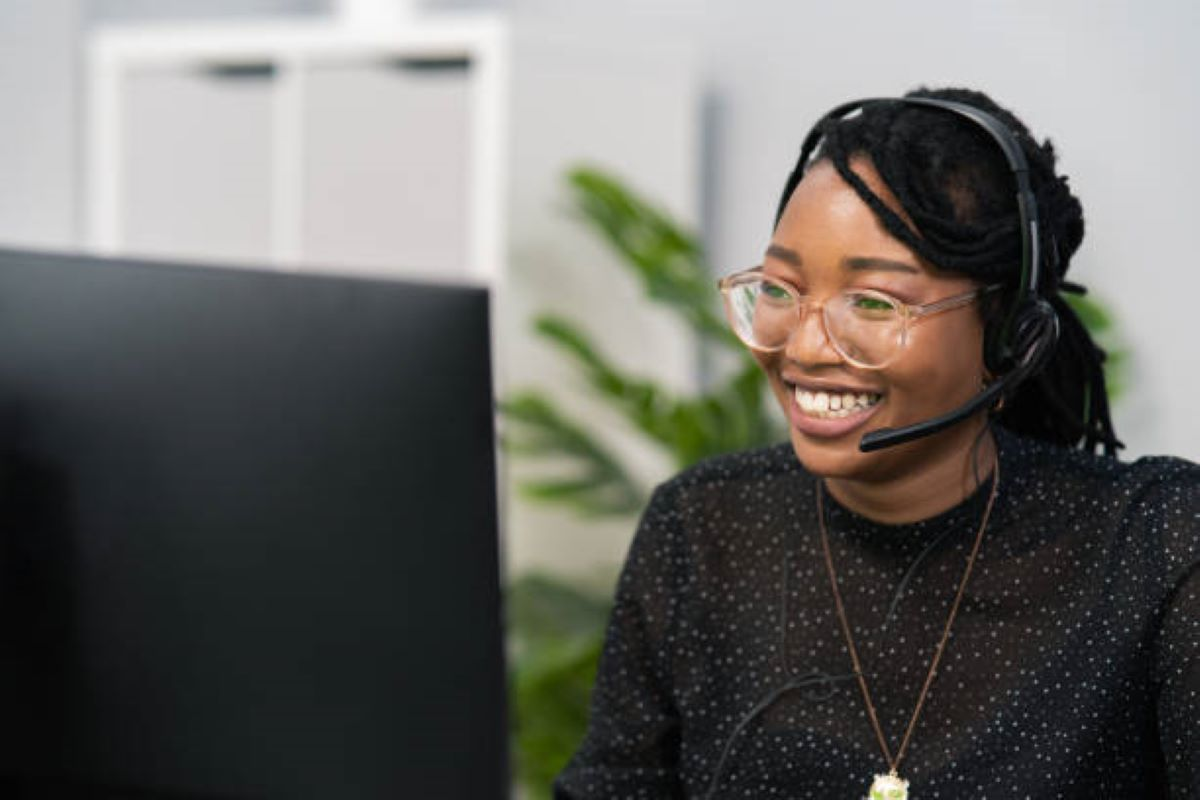
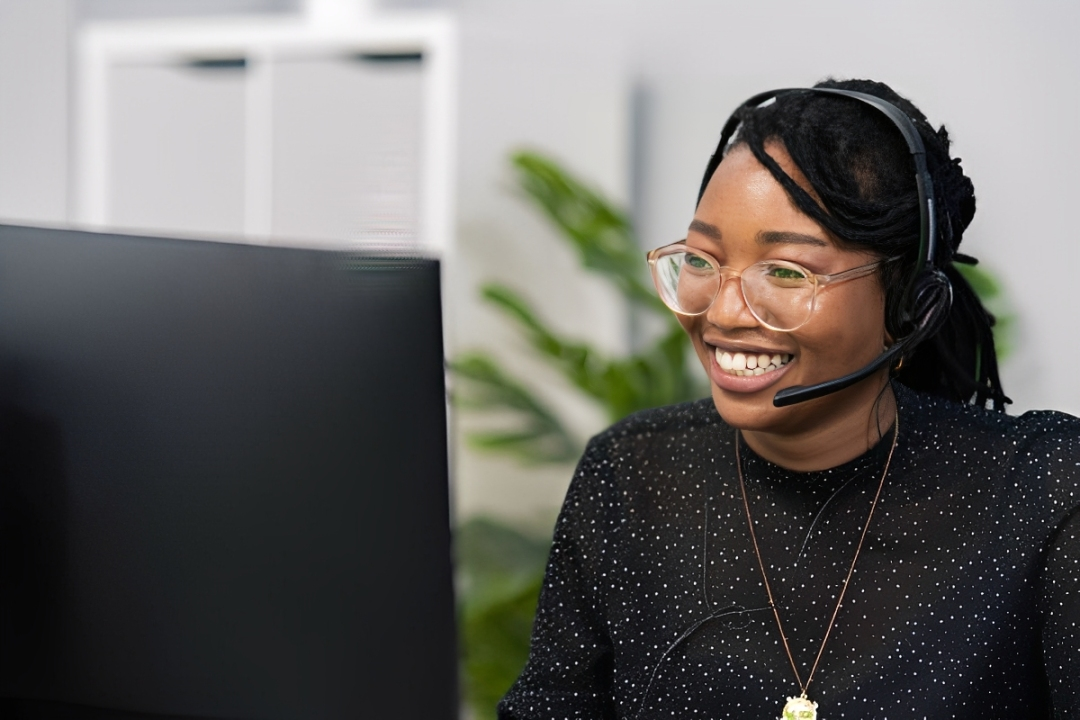
Update: Upscaled background images of some pages

diff --git a/Assets/Styles/careers.css b/Assets/Styles/careers.css
@@ -13,9 +13,9 @@ body {
 }
 
 .asocorp-header {
-    background-image: url(../Images/Backgrounds/carresBg.jpg);
+    background-image: url(../Images/Backgrounds/careersBg.jpg);
     background-size: cover;
-    background-position: center top;
+    background-position: center;
     background-repeat: no-repeat;
     position: relative;
     height: 70vh;

diff --git a/Assets/Styles/about.css b/Assets/Styles/about.css
@@ -10,7 +10,7 @@ body {
     font-family: 'Noto Sans', sans-serif;
     color: #111;
     background-color: #040429;
-    /* overflow: hidden; */
+    overflow: hidden;
 }
 
 .asocorp-header {

diff --git a/Assets/Styles/asocorp.css b/Assets/Styles/asocorp.css
@@ -10,6 +10,7 @@ body {
     font-family: 'Noto Sans', sans-serif;
     color: #fff;
     background-color: #040429;
+    overflow: hidden;
 }
 
 .asocorp-header {
